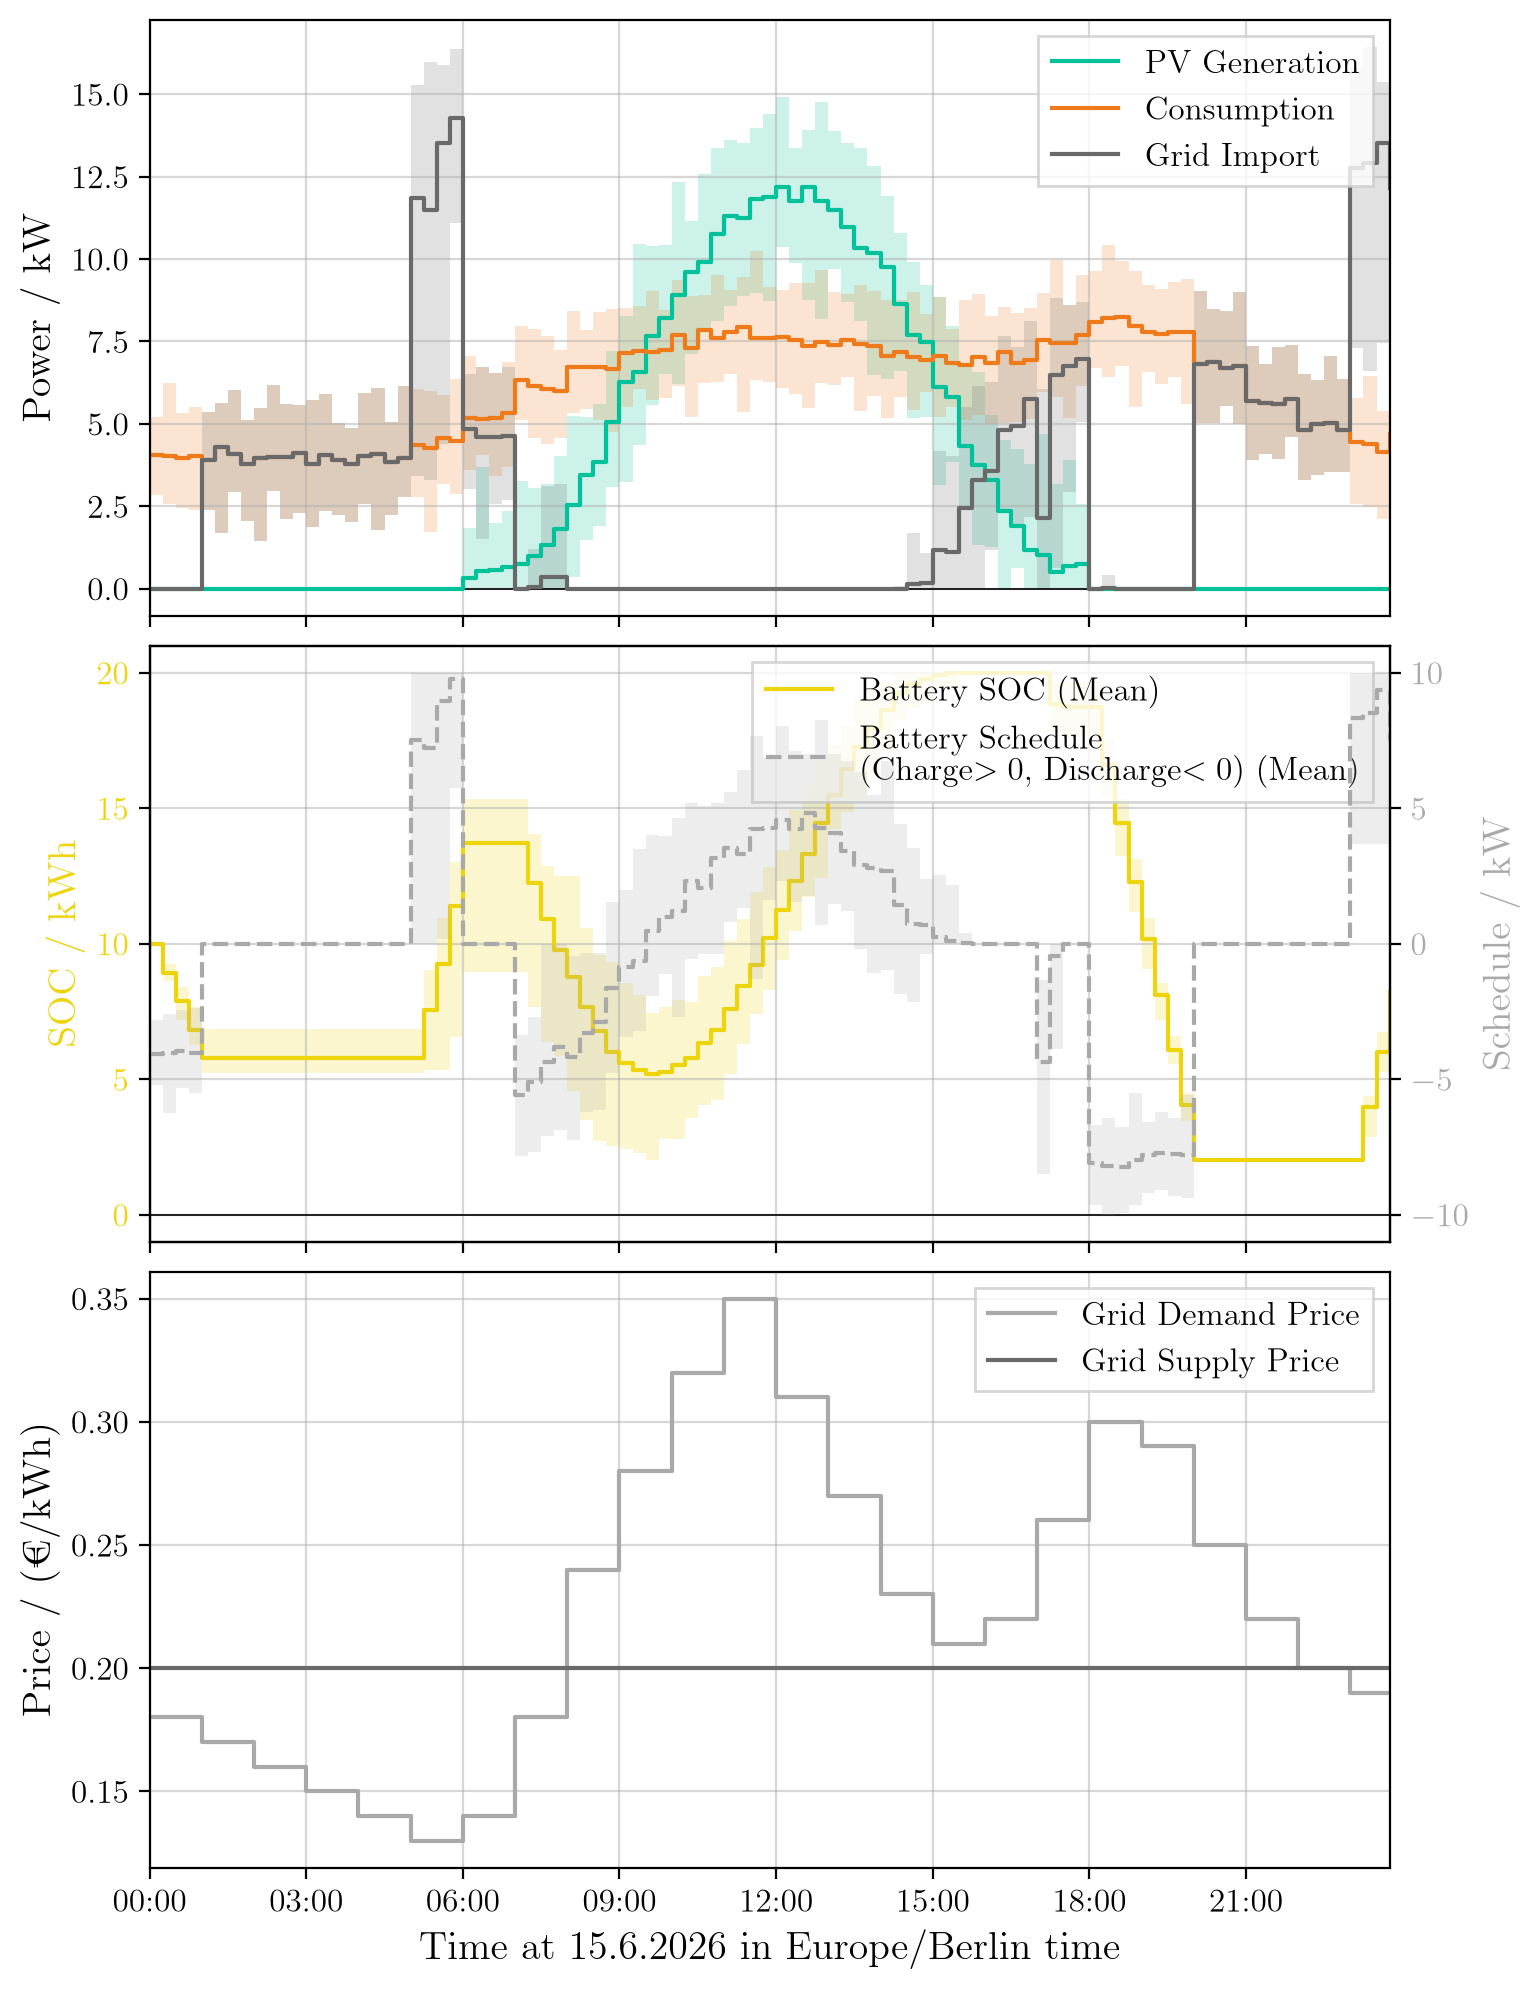
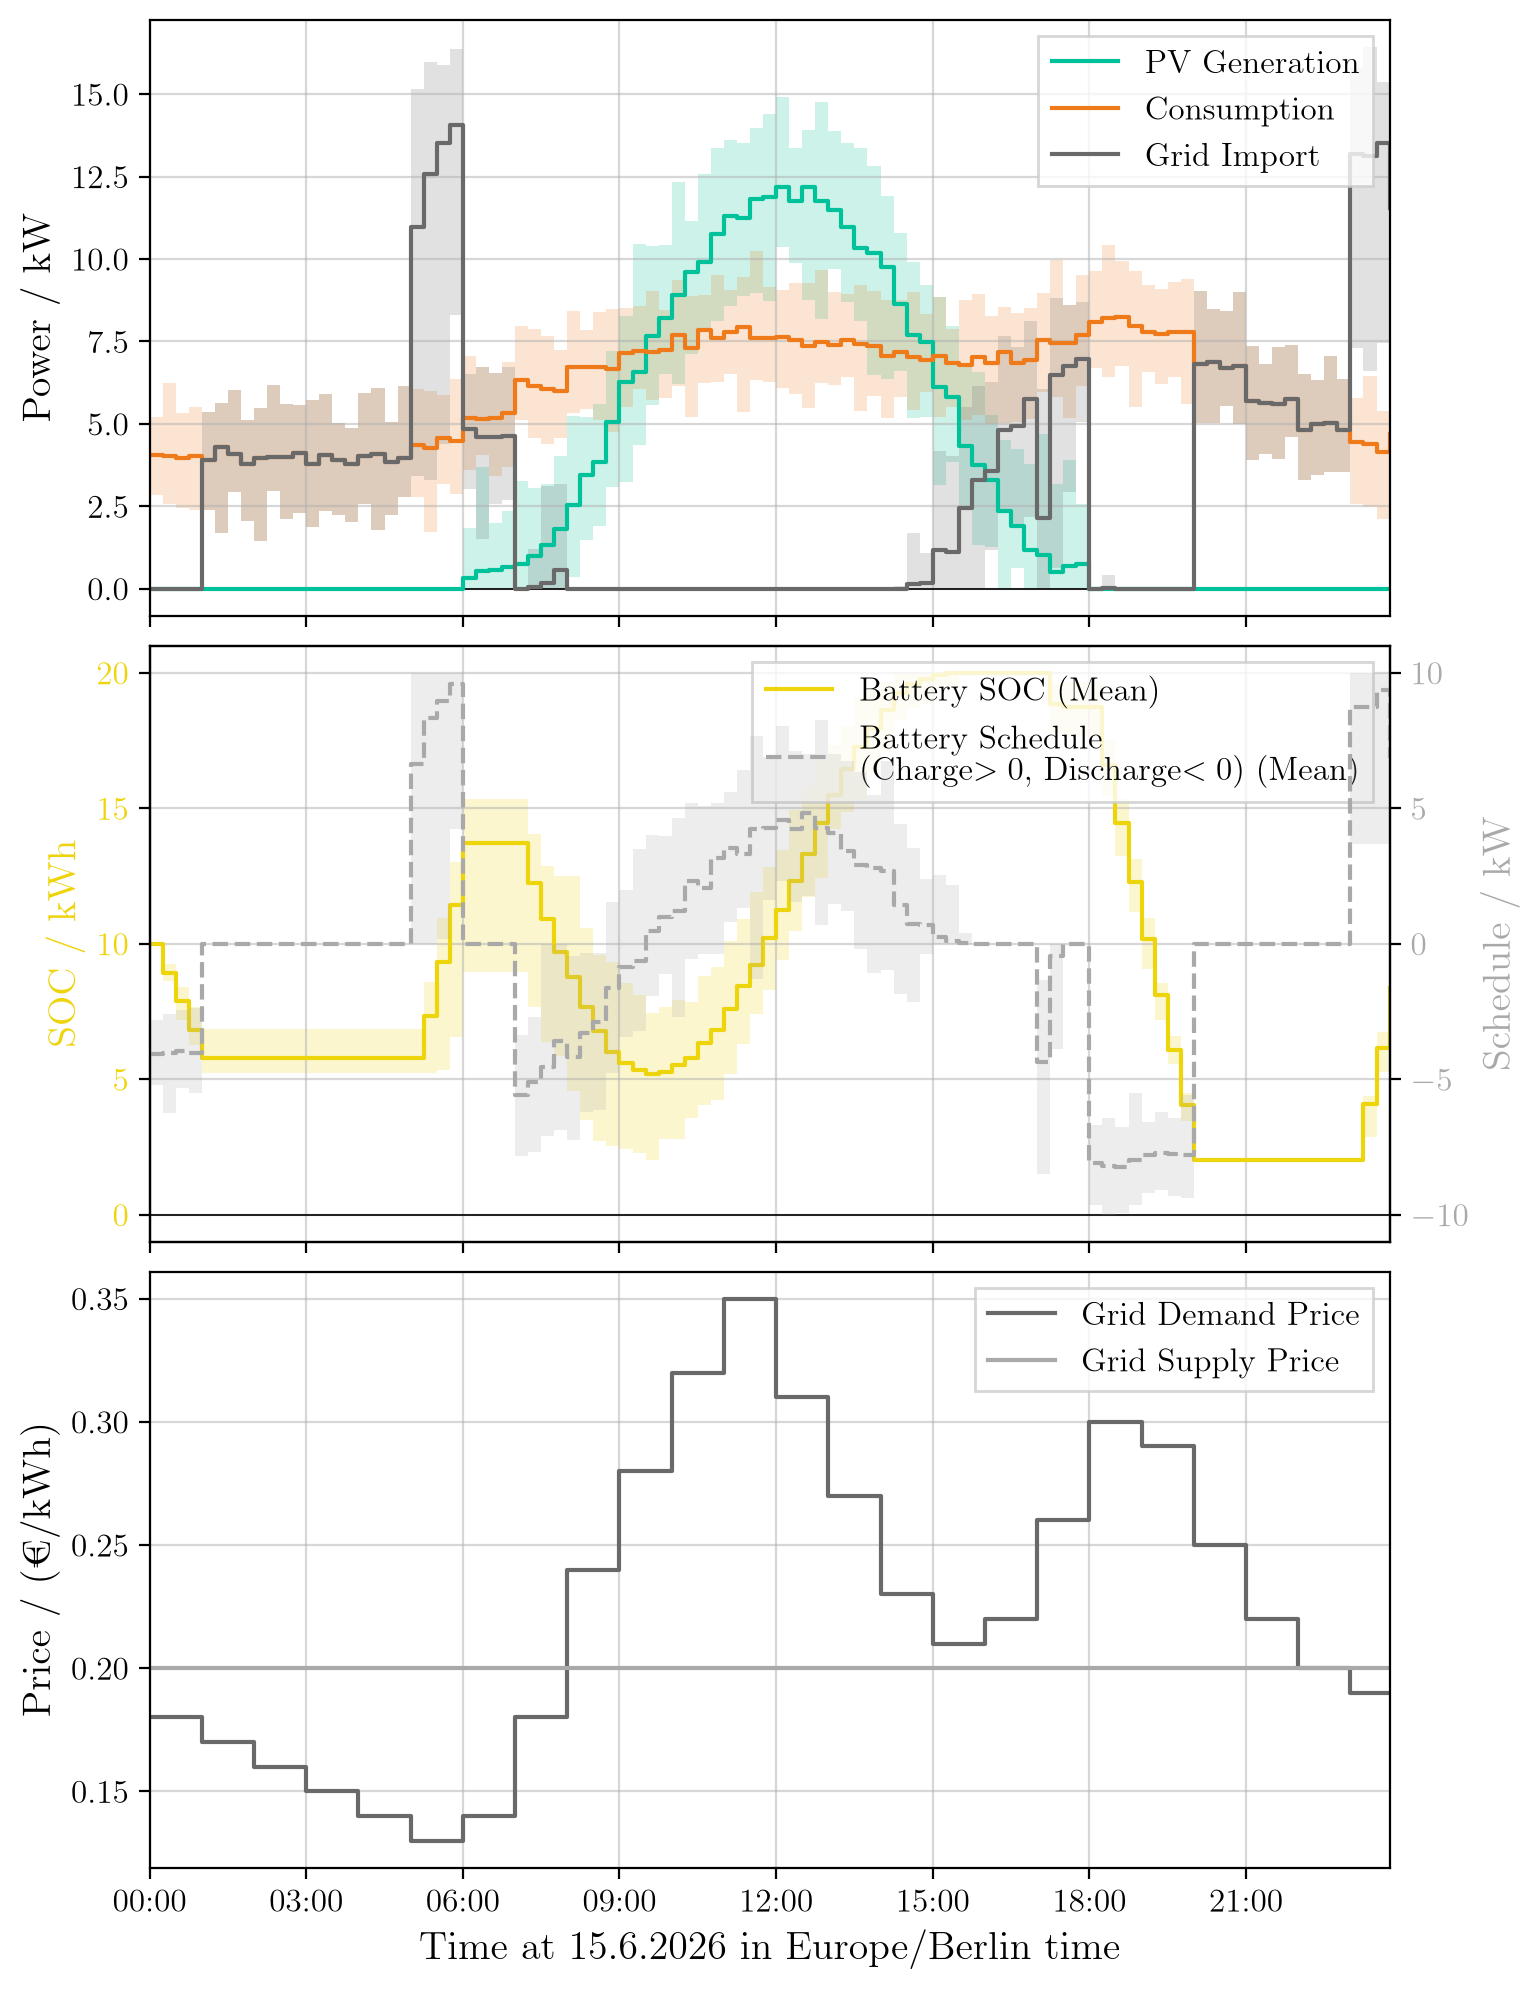
Clean up cost scaling, unused Monte Carlo code and plot colours
- remove the extra 0.25 factor in the oemof variable costs: oemof
  already multiplies by the time step, so the objective is now in €
- remove the unused Monte Carlo cost calculation and cost histogram
- use the same price colours in the scenario 3 plot as in 2 and 4
- English project description in pyproject.toml
- note in the README that equally cheap schedules may differ between runs

diff --git a/optimizer_class.py b/optimizer_class.py
@@ -60,14 +60,14 @@ class BatteryOptimizer:
         )
         energysystem.add(demand_sink, pv_source)
 
+        # Variable costs are given in €/kWh: oemof multiplies them with the
+        # flow in kW and the length of the time step (0.25 h)
         grid_import = solph.components.Source(
             label="grid_demand",
-            outputs={
-                b_el: solph.Flow(variable_costs=df["demand_price_eur_per_kwh"] * 0.25)
-            },
+            outputs={b_el: solph.Flow(variable_costs=df["demand_price_eur_per_kwh"])},
         )
 
-        export_costs = (self.penalty_weight - df["supply_price_eur_per_kwh"]) * 0.25
+        export_costs = self.penalty_weight - df["supply_price_eur_per_kwh"]
         grid_export = solph.components.Sink(
             label="grid_supply", inputs={b_el: solph.Flow(variable_costs=export_costs)}
         )
@@ -96,7 +96,7 @@ class BatteryOptimizer:
                     nominal_capacity=self.battery["discharge_power_max_kw"],
                     maximum=1.0,
                     nonconvex=solph.NonConvex(),
-                    variable_costs=self.deg_cost * 0.25,
+                    variable_costs=self.deg_cost,
                 )
             },
             initial_storage_level=start_soc / self.battery["capacity_kwh"],
@@ -194,8 +194,7 @@ class BatteryOptimizer:
         pv_std: float = 0.10,
         load_std: float = 0.10,
     ):
-        all_schedules, all_socs, all_pvs, all_loads, all_imports, all_costs = (
-            [],
+        all_schedules, all_socs, all_pvs, all_loads, all_imports = (
             [],
             [],
             [],
@@ -215,21 +214,12 @@ class BatteryOptimizer:
             all_pvs.append(df_noisy["pv_power_kw"].rename(f"scenario_{i}"))
             all_loads.append(df_noisy["fixed_demand_kw"].rename(f"scenario_{i}"))
 
-            cost_import = (
-                res["net_demand_kw_pos"] * 0.25 * df_noisy["demand_price_eur_per_kwh"]
-            )
-            revenue_export = (
-                res["net_demand_kw_neg"] * 0.25 * df_noisy["supply_price_eur_per_kwh"]
-            )
-            all_costs.append((cost_import - revenue_export).sum())
-
         return (
             pd.concat(all_schedules, axis=1),
             pd.concat(all_socs, axis=1),
             pd.concat(all_pvs, axis=1),
             pd.concat(all_loads, axis=1),
             pd.concat(all_imports, axis=1),
-            all_costs,
         )
 
     def run_mpc_simulation(

diff --git a/plot_class.py b/plot_class.py
@@ -1,7 +1,6 @@
 from dataclasses import dataclass, field
 import matplotlib.dates as mdates
 import matplotlib.pyplot as plt
-import numpy as np
 import pandas as pd
 
 plt.style.use("latex_style.mplstyle")
@@ -250,47 +249,6 @@ class Plotter:
         fig.savefig(filename)
         plt.close(fig)
 
-    def plot_cost_distribution(
-        self, costs: list[float], reference_cost: float, filename: str
-    ) -> None:
-        plt.figure(figsize=(8, 5))
-
-        plt.hist(
-            costs,
-            bins=10,
-            color="darkgrey",
-            edgecolor="black",
-            alpha=0.7,
-            label="Monte-Carlo Szenarien",
-        )
-
-        # Reference: perfect foresight model
-        plt.axvline(
-            reference_cost,
-            color="black",
-            linestyle="-",
-            linewidth=2,
-            label=f"Perfect foresight ({reference_cost:.2f} €)",
-        )
-        # Mean cost
-        mean_cost = np.mean(costs)
-        plt.axvline(
-            mean_cost,
-            color="dimgrey",
-            linestyle="--",
-            linewidth=2,
-            label=f"Expected cost (mean: {mean_cost:.2f} €)",
-        )
-
-        plt.xlabel("Total daily cost / €")
-        plt.ylabel("Number of scenarios")
-        plt.legend()
-        plt.grid(axis="y", alpha=0.3)
-
-        plt.tight_layout()
-        plt.savefig(filename)
-        plt.close()
-
 
 @dataclass
 class EnergyPlotter(Plotter):
@@ -450,7 +408,7 @@ class EnergyPlotter(Plotter):
                 df_pre["supply_price_eur_per_kwh"],
             ],
             price_labels=["Grid Demand Price", "Grid Supply Price"],
-            price_colors=[self.colors["export"], self.colors["import"]],
+            price_colors=[self.colors["import"], self.colors["export"]],
             price_ylabel="Price / (€/kWh)",
             filename=self._get_filename("3_energy_dashboard_mc_variance"),
             power_mins=[stats["pv_min"], stats["load_min"], stats["import_min"]],

diff --git a/main.py b/main.py
@@ -126,7 +126,7 @@ plotter.plot_scenario_2(df_preprocessed, results_df, total_cost_optimized)
 # using a normal distribution with standard deviation pv_std and load_std, respectively
 ###################################################
 
-mc_schedules, mc_socs, mc_pvs, mc_loads, mc_imports, mc_costs = (
+mc_schedules, mc_socs, mc_pvs, mc_loads, mc_imports = (
     optimizer.run_monte_carlo_sensitivity(
         df_base=df_preprocessed, n_scenarios=30, pv_std=0.10, load_std=0.10
     )

diff --git a/README.md b/README.md
@@ -59,7 +59,7 @@ The _battery degradation costs_ applied in this model are 0.03€/kWh as a rough
 
 ### 2. Scenario
 
-- **PV + Consumption + Grid + Battery:** Here, the battery is included in the system and the schedule for the battery charging and discharging to optimize costs in conjunction with minimal supply to the grid is determined. Therefore, the energy system is defined in `oemof` and an additional _penalty weight_ for the supply to the grid is added. The penalty weight was chosen to be 10 €/kWh. This is far above both grid prices, the demand price paid for energy taken from the grid (0.13–0.35 €/kWh) and the supply price received for energy fed into the grid (0.20 €/kWh). So no cost saving can outweigh supplying energy to the grid, which makes minimizing the supply the higher priority, as requested. With a penalty below 0.07 €/kWh (supply price 0.20 minus the lowest demand price 0.13), buying energy from the grid and selling it back at the same time would earn money, and the optimization would become unbounded. The penalty weight and the degradation costs only steer the optimization. The reported costs are the grid costs only: energy taken from the grid at the demand price minus energy supplied to the grid at the supply price. To make sure the battery never charges and discharges at the same time, the charge and discharge flows each get a binary on/off variable, and an additional constraint allows at most one of them to be on in every time step. The battery schedule is saved as a CSV file in `results/` (e.g. `results/battery_schedule_Eur.csv`) in 15-minute resolution. Its columns are the schedule `battery_schedule_kw` (charging > 0, discharging < 0), the charge and discharge power split, the battery state of charge at the start of each interval in kWh, and the resulting grid import and export in kW. Each timestamp marks the start of its 15-minute interval. The results for the schedule of the battery are shown in a plot as well as the net cost including the battery, for comparison to the first scenario without the battery. Additionally, an _energy dashboard_ is created with an overview of power consumption and generation, the battery schedule, as well as the grid price for the 24 hours.
+- **PV + Consumption + Grid + Battery:** Here, the battery is included in the system and the schedule for the battery charging and discharging to optimize costs in conjunction with minimal supply to the grid is determined. Therefore, the energy system is defined in `oemof` and an additional _penalty weight_ for the supply to the grid is added. The penalty weight was chosen to be 10 €/kWh. This is far above both grid prices, the demand price paid for energy taken from the grid (0.13–0.35 €/kWh) and the supply price received for energy fed into the grid (0.20 €/kWh). So no cost saving can outweigh supplying energy to the grid, which makes minimizing the supply the higher priority, as requested. With a penalty below 0.07 €/kWh (supply price 0.20 minus the lowest demand price 0.13), buying energy from the grid and selling it back at the same time would earn money, and the optimization would become unbounded. The penalty weight and the degradation costs only steer the optimization. The reported costs are the grid costs only: energy taken from the grid at the demand price minus energy supplied to the grid at the supply price. To make sure the battery never charges and discharges at the same time, the charge and discharge flows each get a binary on/off variable, and an additional constraint allows at most one of them to be on in every time step. The battery schedule is saved as a CSV file in `results/` (e.g. `results/battery_schedule_Eur.csv`) in 15-minute resolution. Its columns are the schedule `battery_schedule_kw` (charging > 0, discharging < 0), the charge and discharge power split, the battery state of charge at the start of each interval in kWh, and the resulting grid import and export in kW. Each timestamp marks the start of its 15-minute interval. Since the grid prices are constant within each hour, there are several equally cheap schedules, and the solver may pick a different one between runs (e.g. swapping the charging power of two time steps within the same hour); the costs stay the same. The results for the schedule of the battery are shown in a plot as well as the net cost including the battery, for comparison to the first scenario without the battery. Additionally, an _energy dashboard_ is created with an overview of power consumption and generation, the battery schedule, as well as the grid price for the 24 hours.
 
 
 ### 3. Scenario
